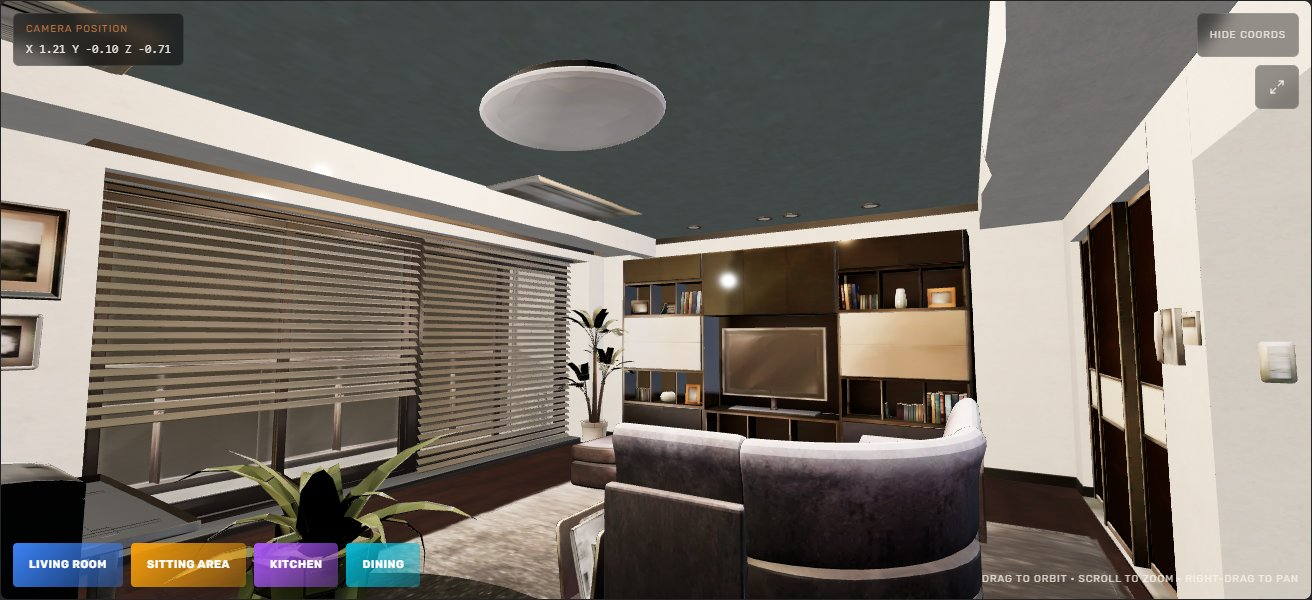
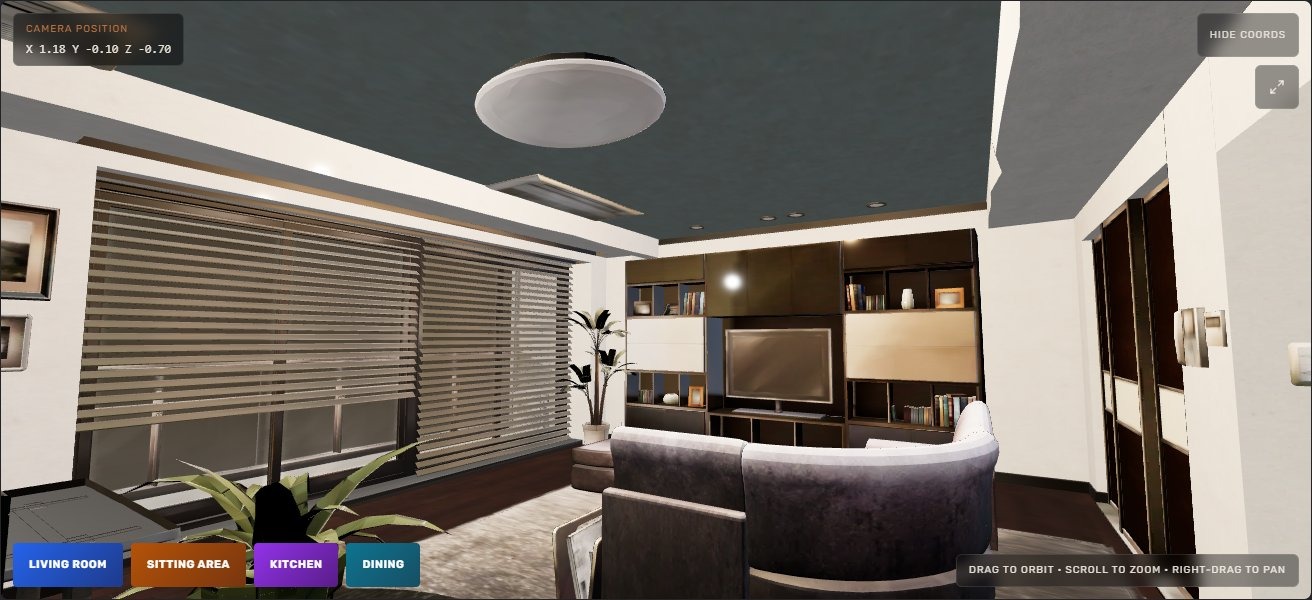
a11y(experience): make hotspot labels and the orbit hint legible over the 3D view
The chips faded to 33% alpha, so white 11px labels sat directly on the rendered scene - as low as 2.2:1 on the amber chip (WCAG AA needs 4.5:1). Each chip is now a solid two-stop gradient using a darker shade of the same hue, keeping the colour coding: blue-600/900, amber-700/900, purple-600/900, cyan-700/900 (all >=5:1 with white). The 'Drag to orbit' hint gets the same scrim treatment as the existing HUD chips.

Refreshes docs/screenshot-3d.jpg from the updated build.

diff --git a/src/components/VirtualExperience.jsx b/src/components/VirtualExperience.jsx
@@ -5,11 +5,14 @@ import { OrbitControls, useProgress, Environment, Lightformer } from '@react-thr
 import { Maximize2, Minimize2 } from 'lucide-react'
 import Apartment from './Apartment.jsx'
 
+// Each chip is a solid two-stop gradient: the previous `colour → colour55` wash let
+// the 3D scene show through the label, which put white text as low as 2.2:1 over the
+// amber chip. These pairs keep the colour coding while holding >=5:1 with white.
 const HOTSPOTS = [
-  { label: 'Living Room', pos: [-1.24, -0.43, 0.72], color: '#3b82f6' },
-  { label: 'Sitting Area', pos: [-1.22, -0.03, -0.99], color: '#f59e0b' },
-  { label: 'Kitchen', pos: [1.81, -0.1, -0.69], color: '#a855f7' },
-  { label: 'Dining', pos: [2.3, -0.17, 0.58], color: '#06b6d4' },
+  { label: 'Living Room', pos: [-1.24, -0.43, 0.72], color: '#2563eb', deep: '#1e3a8a' },
+  { label: 'Sitting Area', pos: [-1.22, -0.03, -0.99], color: '#b45309', deep: '#78350f' },
+  { label: 'Kitchen', pos: [1.81, -0.1, -0.69], color: '#9333ea', deep: '#581c87' },
+  { label: 'Dining', pos: [2.3, -0.17, 0.58], color: '#0e7490', deep: '#164e63' },
 ]
 
 function supportsWebGL() {
@@ -219,12 +222,14 @@ export default function VirtualExperience() {
                       type="button"
                       onClick={() => focus(h.pos)}
                       className="min-h-11 rounded-sm px-4 py-2 text-[11px] font-semibold uppercase tracking-wider text-white shadow-lg transition-transform hover:-translate-y-0.5"
-                      style={{ background: `linear-gradient(135deg, ${h.color}, ${h.color}55)` }}
+                      style={{ background: `linear-gradient(135deg, ${h.color}, ${h.deep})` }}
                     >
                       {h.label}
                     </button>
                   ))}
-                  <p className="ml-auto hidden text-[10px] uppercase tracking-widest text-paper/80 sm:block">
+                  {/* Same chip treatment as the HUD/controls: the text sits over an
+                      arbitrary 3D view, so it needs its own scrim to stay legible. */}
+                  <p className="ml-auto hidden rounded-md border border-white/10 bg-black/40 px-3 py-2 text-[10px] uppercase tracking-widest text-paper/90 backdrop-blur-sm sm:block">
                     Drag to orbit · Scroll to zoom · Right-drag to pan
                   </p>
                 </div>
